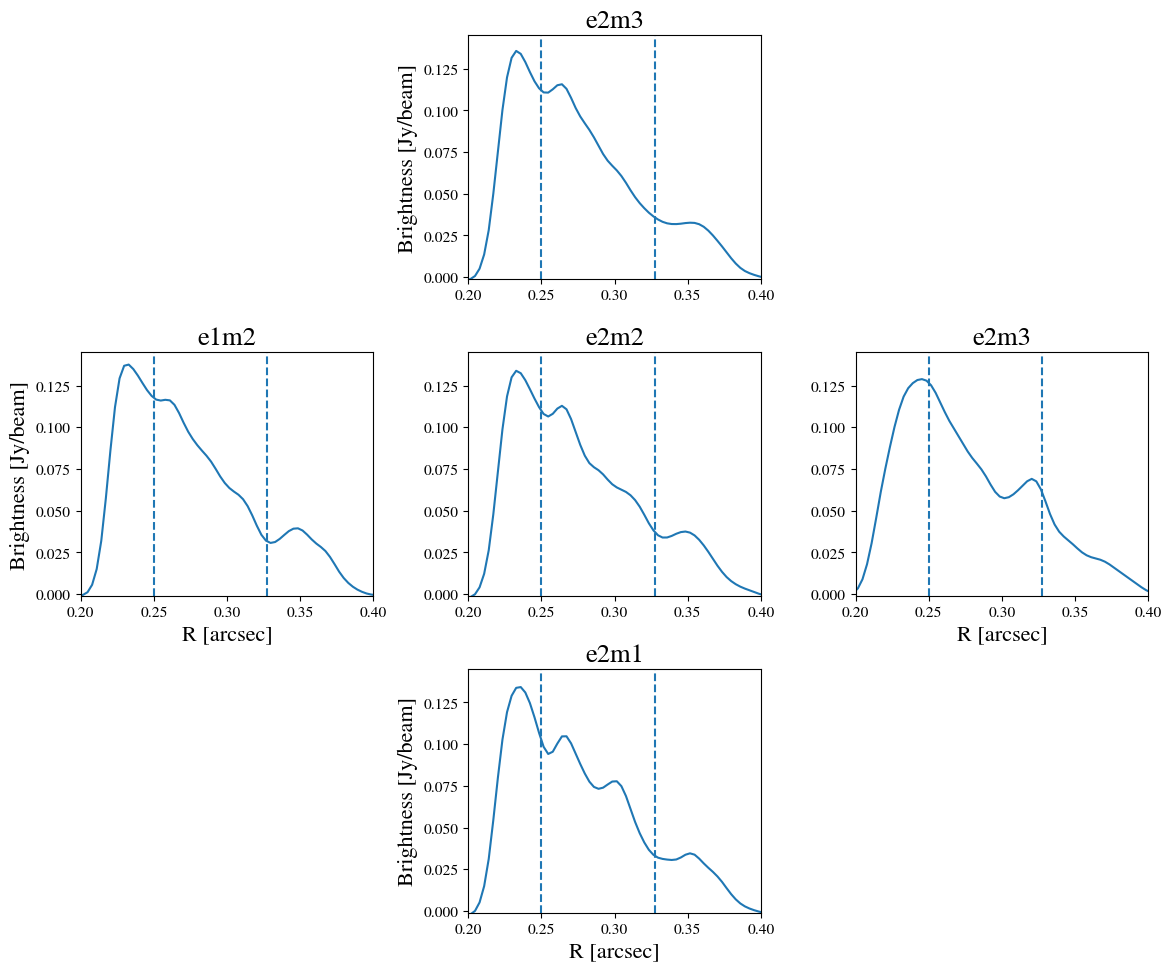
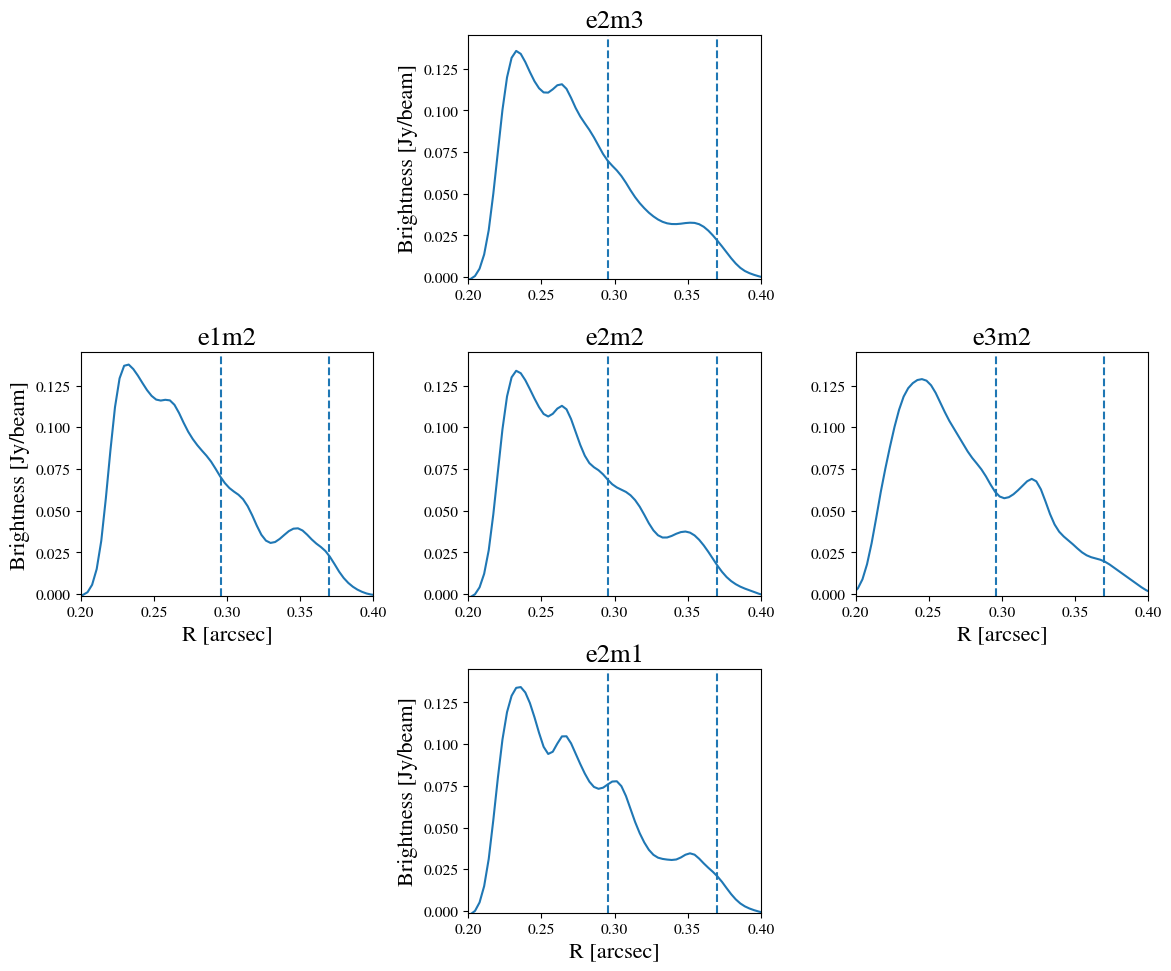
Fix title on brightness profile plot

Changed region(s): [[0.8301, 0.3399, 0.8915, 0.3708]]

diff --git a/makeFig.py b/makeFig.py
@@ -977,7 +977,7 @@ def make_alma_profile():
 	spec = fig.add_gridspec(ncols=3, nrows=3)
 
 	spec_idx = [[0, 1], [1, 0], [1, 1], [1, 2], [2, 1]]
-	sim_title = ['e2m3', 'e1m2', 'e2m2', 'e2m3', 'e2m1']
+	sim_title = ['e2m3', 'e1m2', 'e2m2', 'e3m2', 'e2m1']
 	for idx in range(len(spec_idx)):
 	    i, j = spec_idx[idx][0], spec_idx[idx][1]
 	    ax = fig.add_subplot(spec[i, j])
